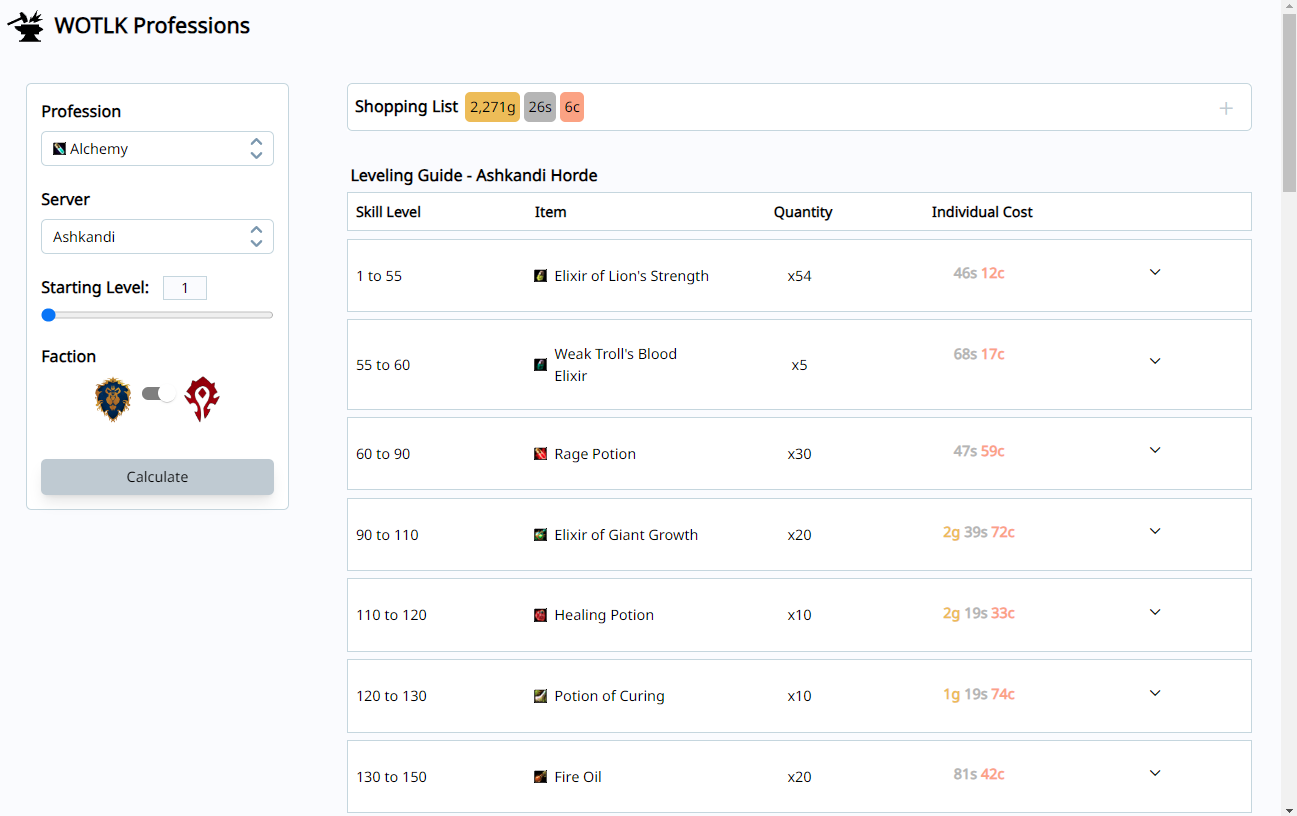
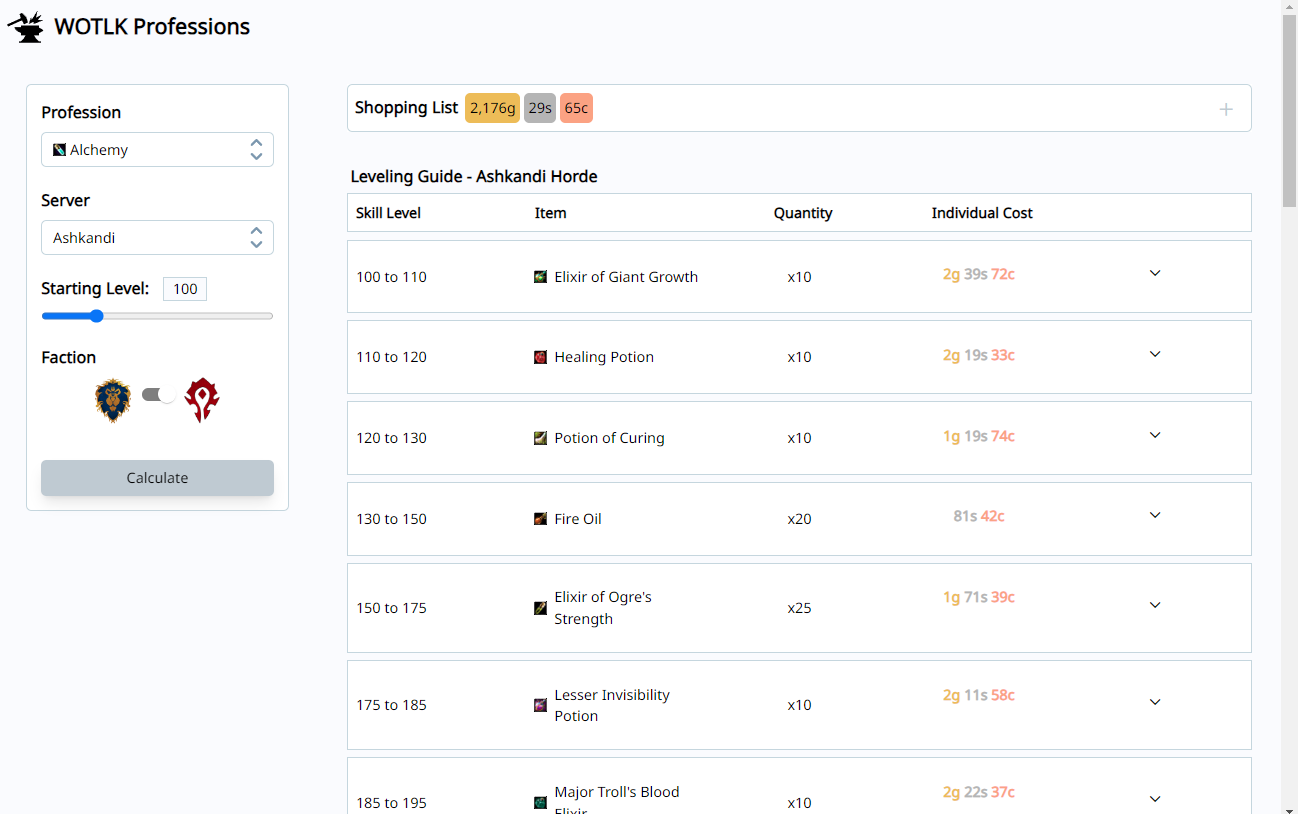
Readme

diff --git a/README.md b/README.md
@@ -27,7 +27,7 @@
 
 <h2>Selection Demo</h2>
 <img src="./readme_screenshots/AlternativeSelection.png"/>
-<p>Here the user has selected the Alchemy profession on the Ashkandi server, Horde.</p>
+<p>Here the user has selected the Alchemy profession starting at level 100 on the Ashkandi server, Horde.</p>
 
 <h2>Unpopulated Realms</h2>
 <img src="./readme_screenshots/DeadServer.png"/>
